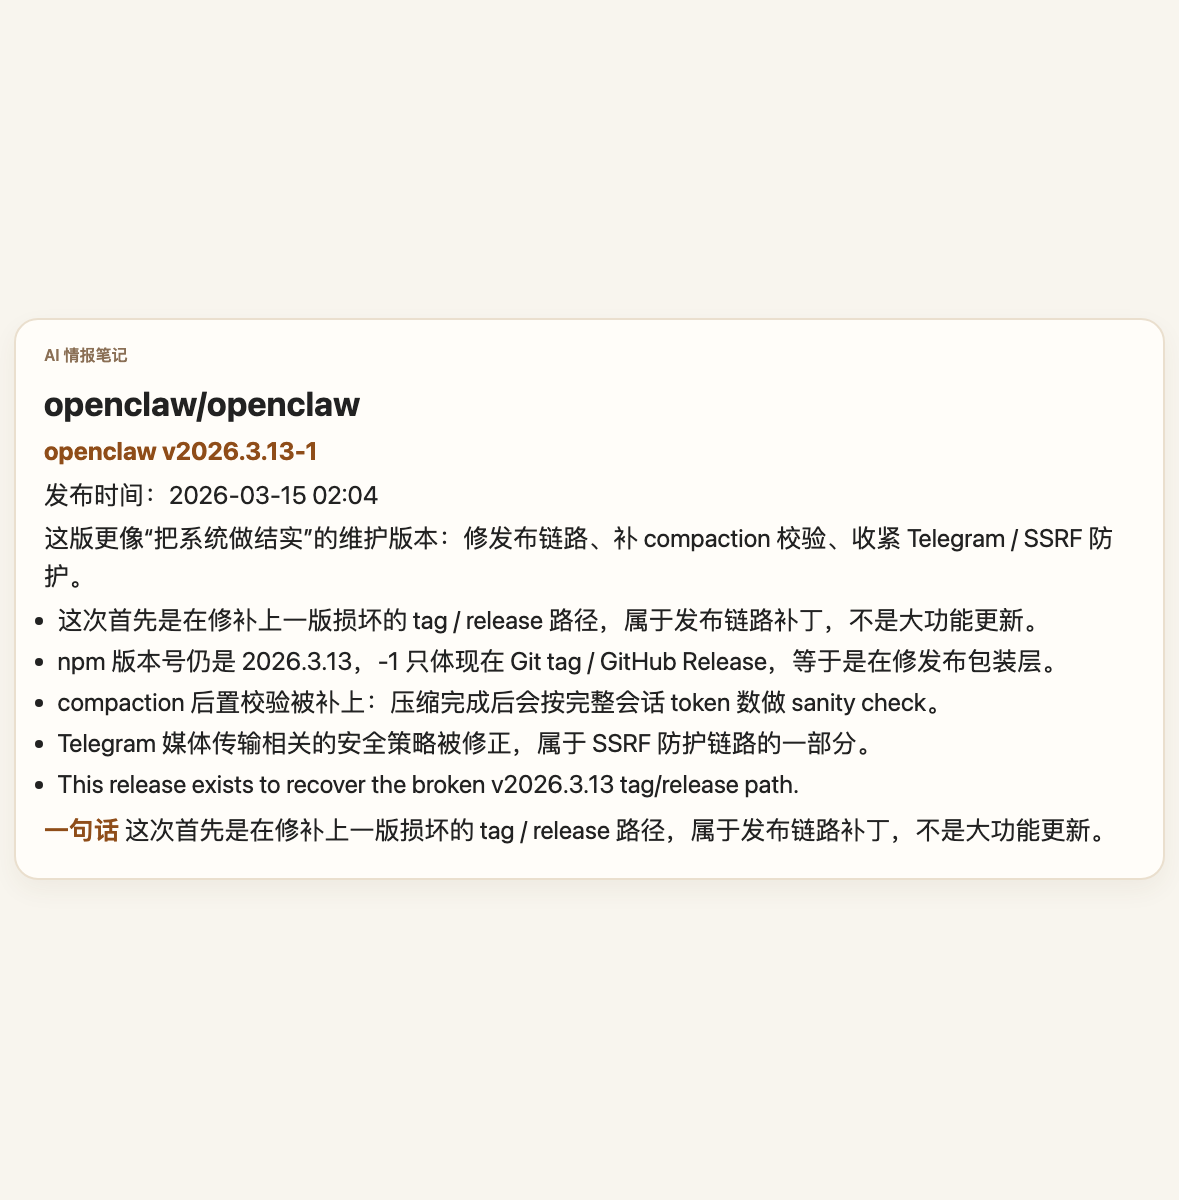
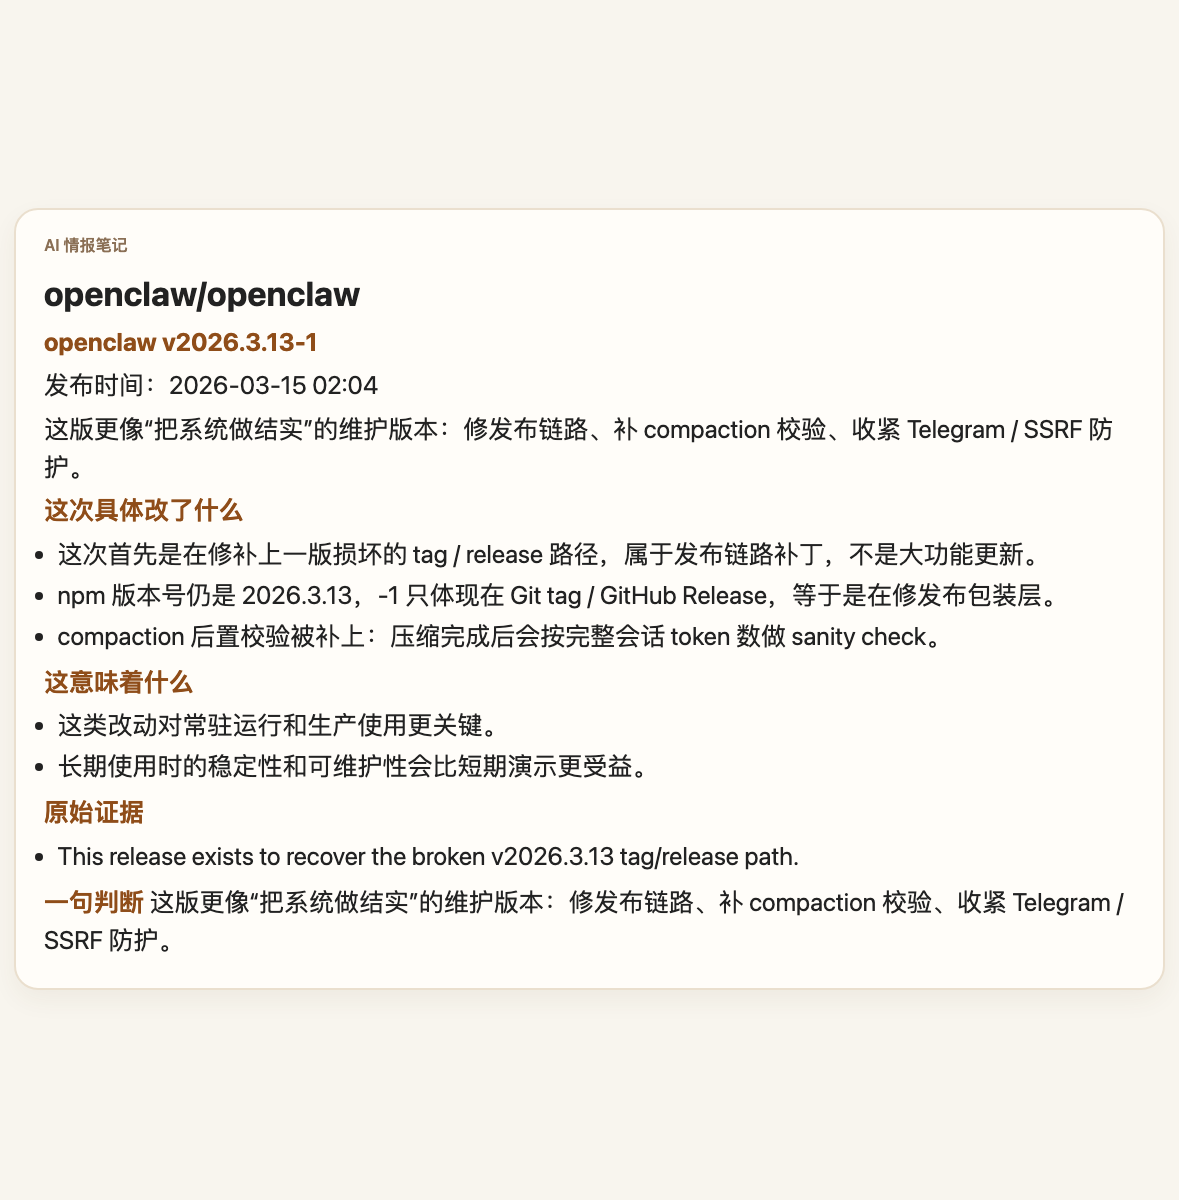
Add Xiaohongshu cards for GitHub AI Daily 2026-03-22

Changed region(s): [[0.0305, 0.185, 0.9466, 0.8017], [0.3969, 0.3392, 0.9466, 0.37], [0.9771, 0.2467, 1.0, 0.2775]]

diff --git a/xiaohongshu/github-ai-daily/2026-03-22-square-9/01-claude-code.md b/xiaohongshu/github-ai-daily/2026-03-22-square-9/01-claude-code.md
@@ -5,11 +5,16 @@
 
 这版不是 flashy 新能力，而是在补 Claude Code 作为工程工具的执行链路：MCP 交互、hook 节点、会话命名和大仓库 worktree 都更完整了。
 
+**这次具体改了什么**
 - 本次 release 主要围绕 CLI、MCP、hook 和 worktree 的可编排性展开，方向是把 Claude Code 做得更像可控的工程系统。
-- Added --bare flag for scripted -p calls — skips hooks, LSP, plugin sync, and skill directory walks; requires ANTHROPIC_API_KEY or an apiKeyHelper via --settings (OAuth and keychain auth disabled); auto-memory fully disabled
-- Added --channels permission relay — channel servers that declare the permission capability can forward tool approval prompts to your phone
-- Fixed multiple concurrent Claude Code sessions requiring repeated re-authentication when one session refreshes its OAuth token
-- Fixed voice mode silently swallowing retry failures and showing a misleading "check your network" message instead of the actual error
+- 如果你在用 Claude Code 跑多轮任务或大仓库，这版比“模型更聪明”更值得关注，因为它改的是工作流可用性。
 
-**一句话**
-本次 release 主要围绕 CLI、MCP、hook 和 worktree 的可编排性展开，方向是把 Claude Code 做得更像可控的工程系统。
+**这意味着什么**
+- 更偏工程执行链路补强，不是表面功能加法。
+- 长期使用时的稳定性和可维护性会比短期演示更受益。
+
+**原始证据**
+- Added --bare flag for scripted -p calls — skips hooks, LSP, plugin sync, and skill directory walks; requires ANTHROPIC_API_KEY or an apiKeyHelper via --settings (OAuth and keychain auth disabled); auto-memory fully disabled
+
+**一句判断**
+这版不是 flashy 新能力，而是在补 Claude Code 作为工程工具的执行链路：MCP 交互、hook 节点、会话命名和大仓库 worktree 都更完整了。

diff --git a/xiaohongshu/github-ai-daily/2026-03-22-square-9/02-openclaw.md b/xiaohongshu/github-ai-daily/2026-03-22-square-9/02-openclaw.md
@@ -5,11 +5,17 @@
 
 这版更像“把系统做结实”的维护版本：修发布链路、补 compaction 校验、收紧 Telegram / SSRF 防护。
 
+**这次具体改了什么**
 - 这次首先是在修补上一版损坏的 tag / release 路径，属于发布链路补丁，不是大功能更新。
 - npm 版本号仍是 2026.3.13，-1 只体现在 Git tag / GitHub Release，等于是在修发布包装层。
 - compaction 后置校验被补上：压缩完成后会按完整会话 token 数做 sanity check。
-- Telegram 媒体传输相关的安全策略被修正，属于 SSRF 防护链路的一部分。
+
+**这意味着什么**
+- 这类改动对常驻运行和生产使用更关键。
+- 长期使用时的稳定性和可维护性会比短期演示更受益。
+
+**原始证据**
 - This release exists to recover the broken v2026.3.13 tag/release path.
 
-**一句话**
-这次首先是在修补上一版损坏的 tag / release 路径，属于发布链路补丁，不是大功能更新。
+**一句判断**
+这版更像“把系统做结实”的维护版本：修发布链路、补 compaction 校验、收紧 Telegram / SSRF 防护。

diff --git a/xiaohongshu/github-ai-daily/2026-03-22-square-9/03-opencode.md b/xiaohongshu/github-ai-daily/2026-03-22-square-9/03-opencode.md
@@ -5,11 +5,15 @@
 
 OpenCode 这版重点不在宣传点，而在底层结构、历史性能和输入形态这些会影响长期使用体验的细节。
 
+**这次具体改了什么**
 - 这版 OpenCode 以底层能力补强和会话稳定性修复为主，同时补了输入能力。
-- Fixed VCS watcher if statement logic
-- Delete legacy permission module
-- Clean up pending entry when question is aborted
-- Remove SIGHUP exit handler
+- 整体看不是新叙事，而是在把 OpenCode 往“能长期用”的日常工具打磨。
 
-**一句话**
-这版 OpenCode 以底层能力补强和会话稳定性修复为主，同时补了输入能力。
+**这意味着什么**
+- 长期使用时的稳定性和可维护性会比短期演示更受益。
+
+**原始证据**
+- Fixed VCS watcher if statement logic
+
+**一句判断**
+OpenCode 这版重点不在宣传点，而在底层结构、历史性能和输入形态这些会影响长期使用体验的细节。

diff --git a/xiaohongshu/github-ai-daily/2026-03-22-square-9/14-claude-code-agents.md b/xiaohongshu/github-ai-daily/2026-03-22-square-9/14-claude-code-agents.md
@@ -1,0 +1,16 @@
+## undeadlist/claude-code-agents
+**claude-code-agents**
+
+⭐ Stars：80
+
+**它是做什么的**
+Claude Code Agents Prompt templates for Claude Code's subagent system. Run parallel code audits, automate fix cycles, get stuff reviewed. Built for the Claude Code Task tool. Not a framework. Just prompts that work. What This Does Claude Code can spawn subagents via Task(). These are the prompts those agents receive.。
+
+**README 要点**
+Complete E2E Development Workflow For Solo Dev Startups Building with Next.js + Claude Code Target User: Solo dev running a startup, only engineer, entire company. Goal: Pull th…
+
+**和主线的关系**
+和 Claude Code 生态直接相关；属于多 agent 编排层。
+
+**一句判断**
+命中 subagent 方向。；和 Claude Code 生态直接相关；属于多 agent 编排层。

diff --git a/xiaohongshu/github-ai-daily/2026-03-22-square-9/05-agor.md b/xiaohongshu/github-ai-daily/2026-03-22-square-9/05-agor.md
@@ -1,0 +1,16 @@
+## preset-io/agor
+**agor**
+
+⭐ Stars：1065
+
+**它是做什么的**
+Orchestrate Claude Code, Codex, and Gemini sessions on a multiplayer canvas. Manage git worktrees, track AI conversations, and visualize your team's agentic work in real-time.。
+
+**README 要点**
+Think Figma, but for AI coding assistants. Orchestrate Claude Code, Codex, and Gemini sessions on a multiplayer canvas. Manage git worktrees, track AI conversations, and visuali…
+
+**和主线的关系**
+和 Claude Code 生态直接相关；和 Codex / 多 agent 编排方向相关；和仓库上下文 / 多任务管理有关。
+
+**一句判断**
+命中 worktree / 多任务协作方向。；和 Claude Code 生态直接相关；和 Codex / 多 agent 编排方向相关；和仓库上下文 / 多任务管理有关。

diff --git a/xiaohongshu/github-ai-daily/2026-03-22-square-9/06-agent-of-empires.md b/xiaohongshu/github-ai-daily/2026-03-22-square-9/06-agent-of-empires.md
@@ -1,0 +1,16 @@
+## njbrake/agent-of-empires
+**agent-of-empires**
+
+⭐ Stars：1240
+
+**它是做什么的**
+Claude Code, OpenCode, Mistral Vibe, Codex CLI, Gemini CLI, Pi.dev, Copilot CLI Coding Agent Terminal Session manager via tmux and git Worktrees。
+
+**README 要点**
+A terminal session manager for AI coding agents on Linux and macOS. Built on tmux, written in Rust. Run multiple AI agents in parallel across different branches of your codebase…
+
+**和主线的关系**
+和 Claude Code 生态直接相关；和 Codex / 多 agent 编排方向相关；和仓库上下文 / 多任务管理有关。
+
+**一句判断**
+命中 worktree / 多任务协作方向。；和 Claude Code 生态直接相关；和 Codex / 多 agent 编排方向相关；和仓库上下文 / 多任务管理有关。

diff --git a/xiaohongshu/github-ai-daily/2026-03-22-square-9/04-codex.md b/xiaohongshu/github-ai-daily/2026-03-22-square-9/04-codex.md
@@ -5,9 +5,14 @@
 
 这一版继续加强 Codex CLI 与 IDE/编辑器接入，方向是把终端与编辑器工作流打通。
 
-- 这一版继续加强 Codex CLI 与 IDE/编辑器接入，方向是把终端与编辑器工作流打通。
-- #13702 fix(subagents) share execpolicy by default @dylan-hurd-oai
+**这次具体改了什么**
 - 这会继续降低从终端走向编辑器协同的切换成本。
 
-**一句话**
+**这意味着什么**
+- 说明工具还在继续往可执行 agent 工作流靠，而不是只拼模型能力。
+
+**原始证据**
+- #13702 fix(subagents) share execpolicy by default @dylan-hurd-oai
+
+**一句判断**
 这一版继续加强 Codex CLI 与 IDE/编辑器接入，方向是把终端与编辑器工作流打通。

diff --git a/xiaohongshu/github-ai-daily/2026-03-22-square-9/11-gptme.md b/xiaohongshu/github-ai-daily/2026-03-22-square-9/11-gptme.md
@@ -1,0 +1,16 @@
+## gptme/gptme
+**gptme**
+
+⭐ Stars：4238
+
+**它是做什么的**
+Your agent in your terminal, equipped with local tools: writes code, uses the terminal, browses the web. Make your own persistent autonomous agent on top!。
+
+**README 要点**
+📜 A personal AI agent in your terminal, with tools to: run shell commands, write code, edit files, browse the web, use vision, and much more. A great coding agent, but general-p…
+
+**和主线的关系**
+与 coding agent 工作流相关，但还需要进一步点进仓库确认成熟度。
+
+**一句判断**
+命中终端 coding agent 方向。；与 coding agent 工作流相关，但还需要进一步点进仓库确认成熟度。

diff --git a/xiaohongshu/github-ai-daily/2026-03-22-square-9/08-gitclaw.md b/xiaohongshu/github-ai-daily/2026-03-22-square-9/08-gitclaw.md
@@ -1,0 +1,16 @@
+## open-gitagent/gitclaw
+**gitclaw**
+
+⭐ Stars：166
+
+**它是做什么的**
+一个 git 原生的 AI agent 框架：身份、规则、记忆、工具和 skills 都作为版本化文件存放在仓库里。
+
+**README 要点**
+Your agent lives inside a git repo — identity, rules, memory, tools, and skills are all version-controlled files. Why Gitclaw? Most agent frameworks treat configuration as code …
+
+**和主线的关系**
+和仓库上下文 / 多任务管理有关。
+
+**一句判断**
+命中 repo memory / 上下文方向。；和仓库上下文 / 多任务管理有关。

diff --git a/xiaohongshu/github-ai-daily/2026-03-22-square-9/10-codecompanion.nvim.md b/xiaohongshu/github-ai-daily/2026-03-22-square-9/10-codecompanion.nvim.md
@@ -1,0 +1,16 @@
+## olimorris/codecompanion.nvim
+**codecompanion.nvim**
+
+⭐ Stars：6322
+
+**它是做什么的**
+✨ AI Coding, Vim Style。
+
+**README 要点**
+:purple heart: Sponsors Thank you to the following people: :sparkles: Features :speech balloon: Copilot Chat meets Zed AI, in Neovim :zap: Integrates Neovim with LLMs and Agents…
+
+**和主线的关系**
+与 coding agent 工作流相关，但还需要进一步点进仓库确认成熟度。
+
+**一句判断**
+命中协议 / 工具接入方向。；与 coding agent 工作流相关，但还需要进一步点进仓库确认成熟度。

diff --git a/xiaohongshu/github-ai-daily/2026-03-22-square-9/12-RPG-ZeroRepo.md b/xiaohongshu/github-ai-daily/2026-03-22-square-9/12-RPG-ZeroRepo.md
@@ -1,0 +1,16 @@
+## microsoft/RPG-ZeroRepo
+**RPG-ZeroRepo**
+
+⭐ Stars：551
+
+**它是做什么的**
+[ICLR 2026] RPG: A Repository Planning Graph for Unified and Scalable Codebase Generation。
+
+**README 要点**
+RPG-ZeroRepo RPG (Repository Planning Graph) is a hierarchical graph representation that captures both the functional view (features, requirements) and the structural view (file…
+
+**和主线的关系**
+和仓库上下文 / 多任务管理有关。
+
+**一句判断**
+命中 repo memory / 上下文方向。；和仓库上下文 / 多任务管理有关。

diff --git a/xiaohongshu/github-ai-daily/2026-03-22-square-9/13-vscode-acp.md b/xiaohongshu/github-ai-daily/2026-03-22-square-9/13-vscode-acp.md
@@ -1,0 +1,16 @@
+## formulahendry/vscode-acp
+**vscode-acp**
+
+⭐ Stars：82
+
+**它是做什么的**
+Agent Client Protocol client for VS Code — connect to any ACP-compatible AI coding agent。
+
+**README 要点**
+ACP Client for VS Code A Visual Studio Code extension that provides a client for the Agent Client Protocol (ACP) — connect to any ACP-compatible AI coding agent directly from yo…
+
+**和主线的关系**
+属于协议 / 工具接入层。
+
+**一句判断**
+命中协议 / 工具接入方向。；属于协议 / 工具接入层。
